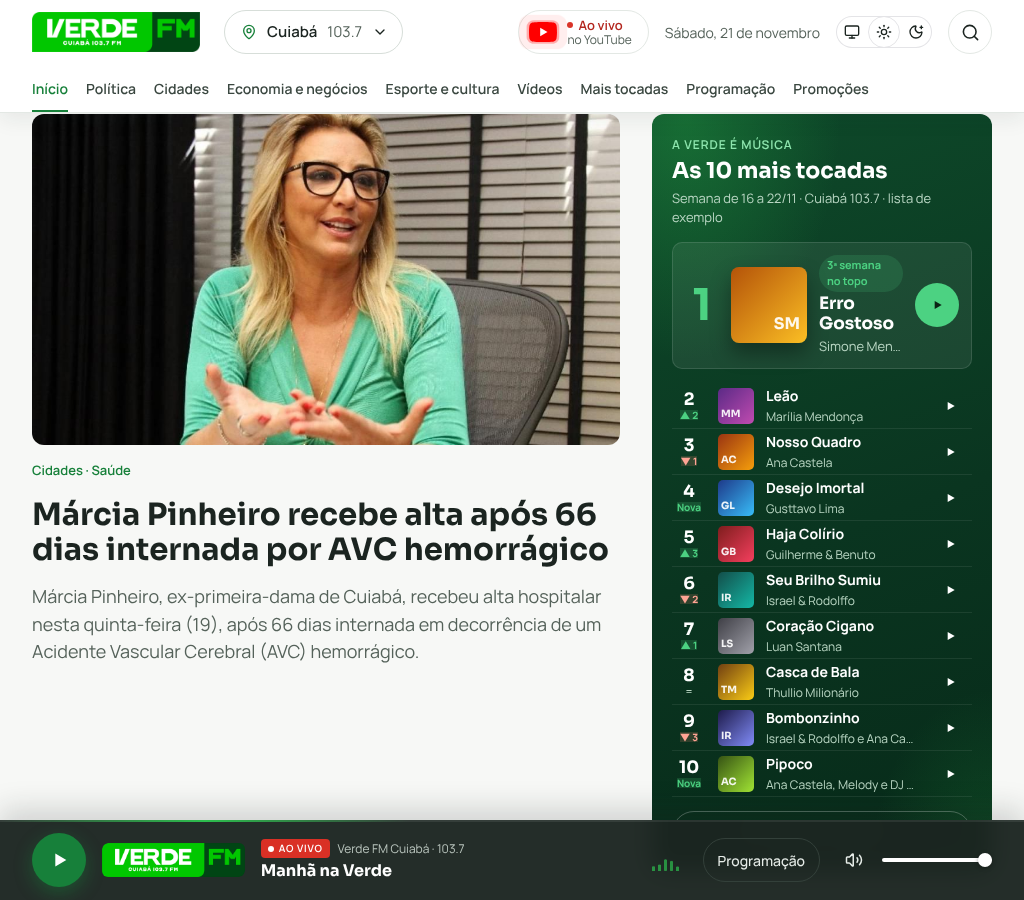
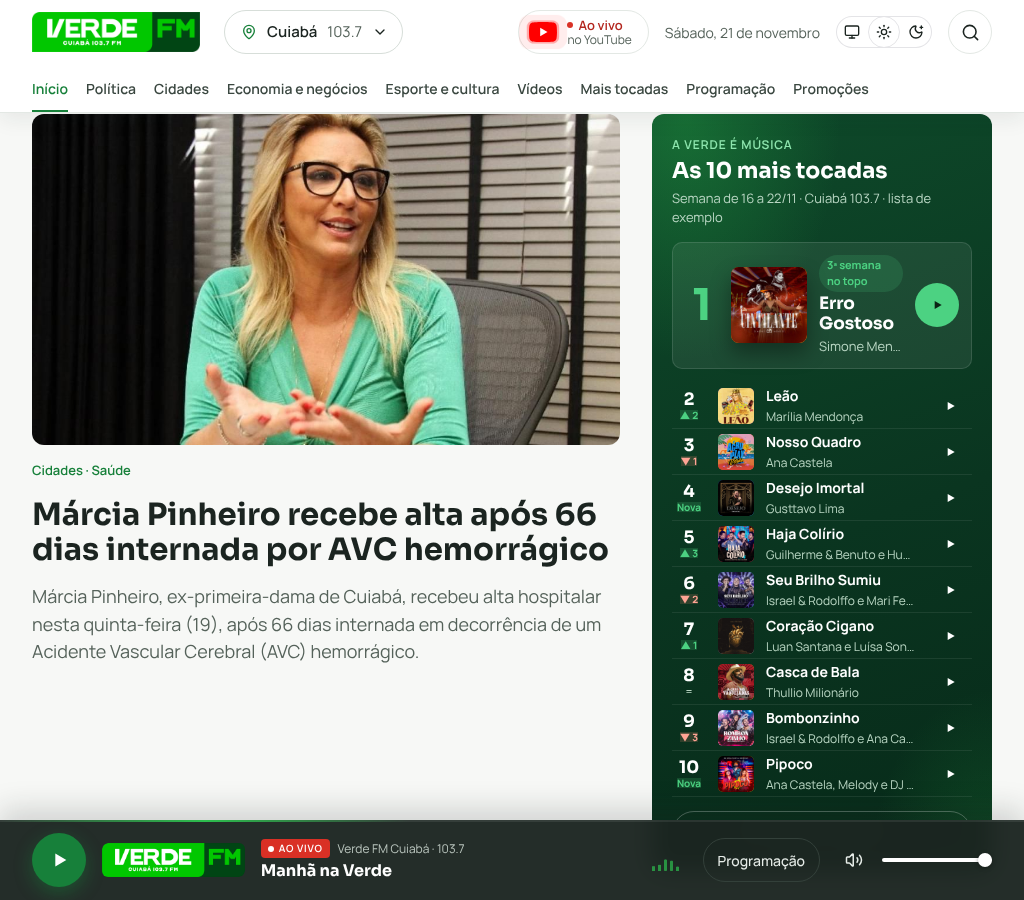
Mais tocadas: capas reais e links do YouTube Music
As 10 músicas de exemplo agora mostram a capa oficial de cada single e o
botão de ouvir abre o clipe oficial no YouTube Music. Nomes dos artistas
com participação completos. Provisório até a rádio enviar a parada real.

Claude-Session: https://claude.ai/code/session_013Hzvk3TWZS9ri3NTZQKwAp

diff --git a/web/lib/conteudo.ts b/web/lib/conteudo.ts
@@ -169,22 +169,25 @@ export type MusicaParada = {
   semanas: number;
   capa?: string;
   previa?: string;
+  youtube?: string; // id do vídeo: o botão abre no YouTube Music
 };
+// Capas e links provisórios (demonstração): arte oficial dos singles e o vídeo oficial de cada música.
+const C = (n: string) => `/assets/img/parada/${n}.jpg`;
 export const PARADA = {
   semana: "Semana de 16 a 22 de novembro",
   semanaCurta: "Semana de 16 a 22/11",
   exemplo: true,
   semanasNoTopo: 3,
   musicas: [
-    { musica: "Erro Gostoso", artista: "Simone Mendes", anterior: 1, semanas: 9 },
-    { musica: "Leão", artista: "Marília Mendonça", anterior: 4, semanas: 12 },
-    { musica: "Nosso Quadro", artista: "Ana Castela", anterior: 2, semanas: 15 },
-    { musica: "Desejo Imortal", artista: "Gusttavo Lima", anterior: null, semanas: 1 },
-    { musica: "Haja Colírio", artista: "Guilherme & Benuto", anterior: 8, semanas: 7 },
-    { musica: "Seu Brilho Sumiu", artista: "Israel & Rodolffo", anterior: 4, semanas: 10 },
-    { musica: "Coração Cigano", artista: "Luan Santana", anterior: 8, semanas: 4 },
-    { musica: "Casca de Bala", artista: "Thullio Milionário", anterior: 8, semanas: 8 },
-    { musica: "Bombonzinho", artista: "Israel & Rodolffo e Ana Castela", anterior: 6, semanas: 11 },
-    { musica: "Pipoco", artista: "Ana Castela, Melody e DJ Chris no Beat", anterior: null, semanas: 1 },
+    { musica: "Erro Gostoso", artista: "Simone Mendes", anterior: 1, semanas: 9, capa: C("erro-gostoso"), youtube: "mr09lDl_Tfk" },
+    { musica: "Leão", artista: "Marília Mendonça", anterior: 4, semanas: 12, capa: C("leao"), youtube: "tI55Zu9uZEM" },
+    { musica: "Nosso Quadro", artista: "Ana Castela", anterior: 2, semanas: 15, capa: C("nosso-quadro"), youtube: "vzEIwc0rG8Y" },
+    { musica: "Desejo Imortal", artista: "Gusttavo Lima", anterior: null, semanas: 1, capa: C("desejo-imortal"), youtube: "-UUe7g8-E0k" },
+    { musica: "Haja Colírio", artista: "Guilherme & Benuto e Hugo & Guilherme", anterior: 8, semanas: 7, capa: C("haja-colirio"), youtube: "qjxNM9qF3LA" },
+    { musica: "Seu Brilho Sumiu", artista: "Israel & Rodolffo e Mari Fernandez", anterior: 4, semanas: 10, capa: C("seu-brilho-sumiu"), youtube: "bHT5GvYi6io" },
+    { musica: "Coração Cigano", artista: "Luan Santana e Luísa Sonza", anterior: 8, semanas: 4, capa: C("coracao-cigano"), youtube: "Vz4Sb1bl1IE" },
+    { musica: "Casca de Bala", artista: "Thullio Milionário", anterior: 8, semanas: 8, capa: C("casca-de-bala"), youtube: "uSB58FixgSQ" },
+    { musica: "Bombonzinho", artista: "Israel & Rodolffo e Ana Castela", anterior: 6, semanas: 11, capa: C("bombonzinho"), youtube: "t050lriI0_w" },
+    { musica: "Pipoco", artista: "Ana Castela, Melody e DJ Chris no Beat", anterior: null, semanas: 1, capa: C("pipoco"), youtube: "69JAoslGYI8" },
   ] as MusicaParada[],
 };

diff --git a/web/components/verde/parada.tsx b/web/components/verde/parada.tsx
@@ -26,7 +26,7 @@ function Capa({ m, i, grande }: { m: MusicaParada; i: number; grande?: boolean }
   return (
     <span className={`vfm-parada__capa${grande ? " vfm-parada__capa--grande" : ""}`} aria-hidden="true"
       style={{ background: `linear-gradient(135deg, ${c[0]}, ${c[1]})` }}>
-      {m.capa ? <img src={m.capa} alt="" width={300} height={300} loading="lazy" /> : sigla(m.artista)}
+      {m.capa ? <img src={m.capa} alt="" width={400} height={400} loading={i < 4 ? undefined : "lazy"} /> : sigla(m.artista)}
     </span>
   );
 }
@@ -54,15 +54,17 @@ function usePrevia() {
   return { tocando, previa, elemento, radioTocando };
 }
 
-/** Botão de ouvir: com prévia toca aqui 30 s; sem prévia, abre a música no YouTube. */
+/** Botão de ouvir: com prévia toca aqui 30 s; sem prévia, abre a música no YouTube Music. */
 function BotaoOuvir({ i, grande, classe, ativo, previa }: { i: number; grande?: boolean; classe?: string; ativo: boolean; previa: (i: number) => void }) {
   const m = PARADA.musicas[i];
   const c = classe ?? (grande ? "vfm-parada__ouvir" : "vfm-parada__play");
   if (!m.previa) {
-    const busca = `https://www.youtube.com/results?search_query=${encodeURIComponent(`${m.musica} ${m.artista}`)}`;
+    const link = m.youtube
+      ? `https://music.youtube.com/watch?v=${m.youtube}`
+      : `https://music.youtube.com/search?q=${encodeURIComponent(`${m.musica} ${m.artista}`)}`;
     return (
-      <a className={c} href={busca} target="_blank" rel="noopener" aria-label={grande ? undefined : `Ouvir ${m.musica} no YouTube (abre em nova aba)`}>
-        <IcoPlay t={grande ? 16 : 14} />{grande && <>Ouvir no YouTube<span className="vfm-so-leitor"> (abre em nova aba)</span></>}
+      <a className={c} href={link} target="_blank" rel="noopener" aria-label={grande ? undefined : `Ouvir ${m.musica} no YouTube Music (abre em nova aba)`}>
+        <IcoPlay t={grande ? 16 : 14} />{grande && <>Ouvir no YouTube Music<span className="vfm-so-leitor"> (abre em nova aba)</span></>}
       </a>
     );
   }

diff --git a/CLAUDE.md b/CLAUDE.md
@@ -89,6 +89,7 @@ Portal de notícias da Rádio Verde FM, multi-cidade: cada cidade tem a sua rád
 - **21/11/2026** — **"As 10 mais tocadas da Verde" na home** (pedido do cliente via Luiz; opção A aprovada no quadro https://claude.ai/artifact/RTVSTTCn99yB1R1Zza8Q4p): seção grafite com brilho verde logo depois das editorias (`web/components/verde/parada.tsx`, classes `vfm-parada*`). 1º lugar em destaque (capa grande, disco de vinil que gira só com a rádio ou a prévia tocando, "1" grande verde, "N.ª semana no topo"), 2º ao 10º em lista com subiu/caiu/igual/nova, capa, música, artista, semanas e play; faixa "Tocando agora na Verde" com o programa no ar; botão "Ver a parada completa" abre `/mais-tocadas`. Prévia de 30 s toca na página quando a música tem o campo `previa`; sem prévia, o play abre a música no YouTube em nova aba. Prévia e rádio não tocam juntas. Capas: imagem do cadastro ou, sem imagem, quadro colorido com as iniciais do artista. Dados em `PARADA` (`web/lib/conteudo.ts`); a lista da demonstração é **exemplo** e aparece marcada assim. **Falta:** parada real (uma só ou por cidade?), WhatsApp de cada rádio para o "Peça sua música" (fica escondido até ter o número) e confirmar se o streaming informa a música tocando.
   - **21/11/2026 (pedido do Luiz):** a seção usa **o mesmo verde-escuro da seção de vídeos** (fundo `--vfm-verde-noite` com brilho, ondas de rádio saindo de trás do disco e grão) e entrou no menu como **"Mais tocadas"**, depois de Vídeos (em 1024–1279 px o menu aperta o espaço para caber numa linha). Capa do 1º lugar sem imagem fica dourada, para não sumir no verde.
   - **21/11/2026 · Mais tocadas ao lado da manchete** (opção C aprovada no mesmo quadro; substitui o lugar da seção na home): no computador, painel verde-escuro à direita da manchete (`ParadaLateral` em `parada.tsx`, classes `vfm-parada-lateral*`; coluna de 392 px, 340 px entre 1024 e 1279 px) com o 1º lugar em destaque, do 2º ao 10º em lista compacta e "Ver a parada completa"; no celular vem logo depois da manchete, do 1º ao 5º, com "Ver as 10 mais tocadas". As 2 notícias que ficavam ao lado da manchete foram para a faixa de baixo, que passou a ter **4 notícias** (2 colunas entre 1024 e 1279 px). **A seção grande das mais tocadas saiu da home**; continua só na página `/mais-tocadas`.
+  - **21/11/2026 · Capas reais e YouTube Music (provisório, pedido do Luiz):** as 10 músicas de exemplo têm a capa oficial do single (copiadas do catálogo da Apple Music/Deezer para `web/public/assets/img/parada/`) e o play abre o vídeo oficial no **YouTube Music** (`music.youtube.com/watch?v=…`, campo `youtube` em `PARADA`). Artistas com participação corrigidos. Sem `youtube`, o play busca a música no YouTube Music. Quando a rádio mandar a parada real, trocar capas e links.
 
 ## Próximas etapas
 
